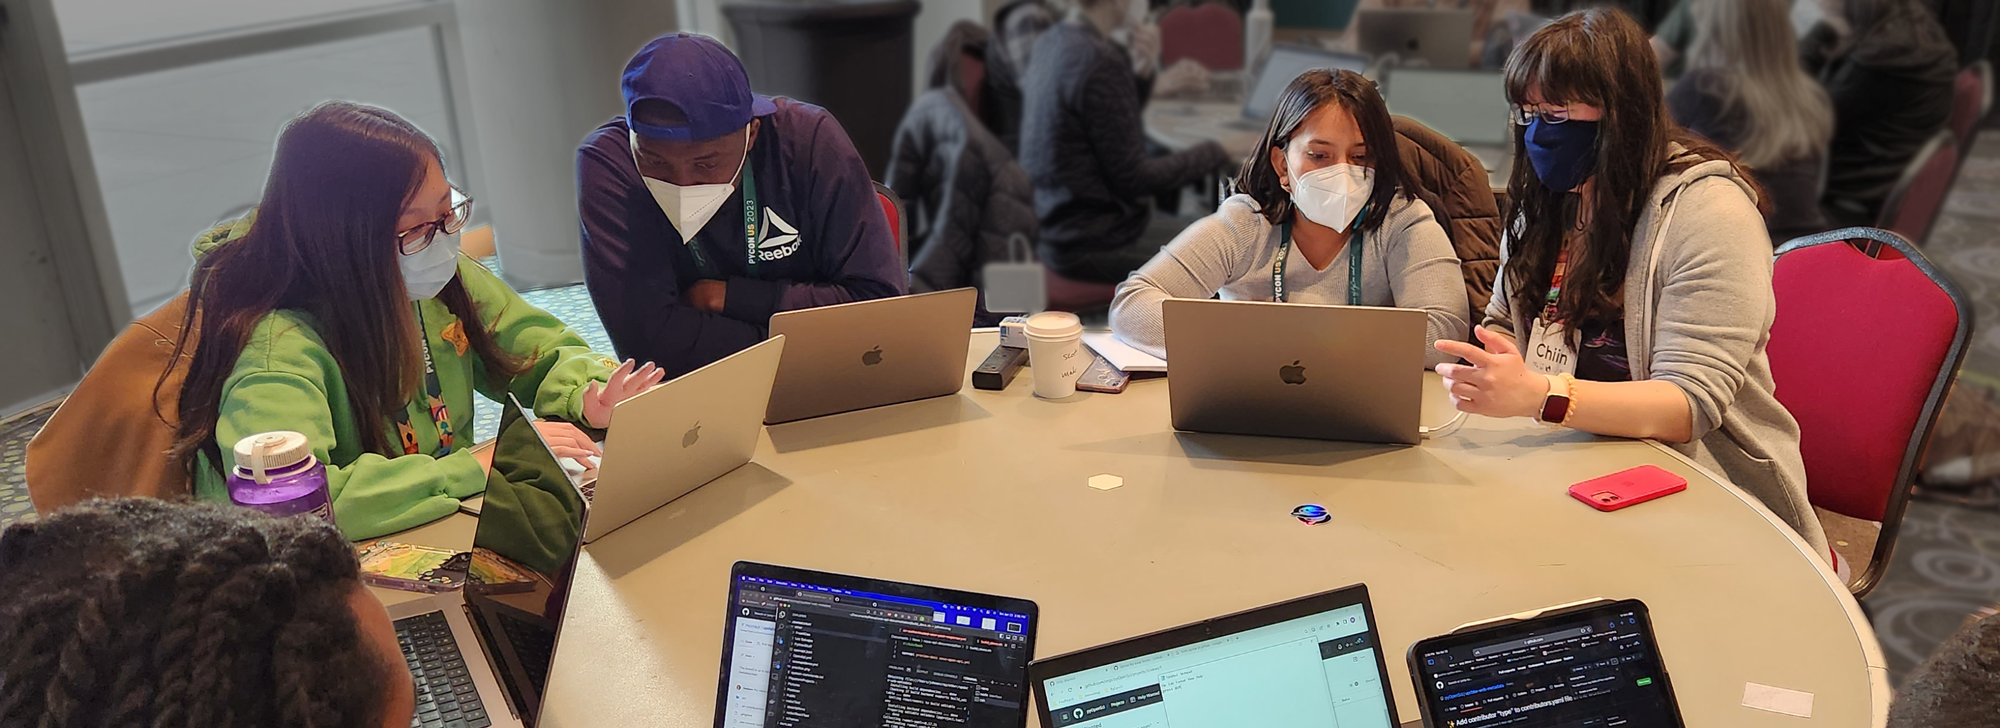
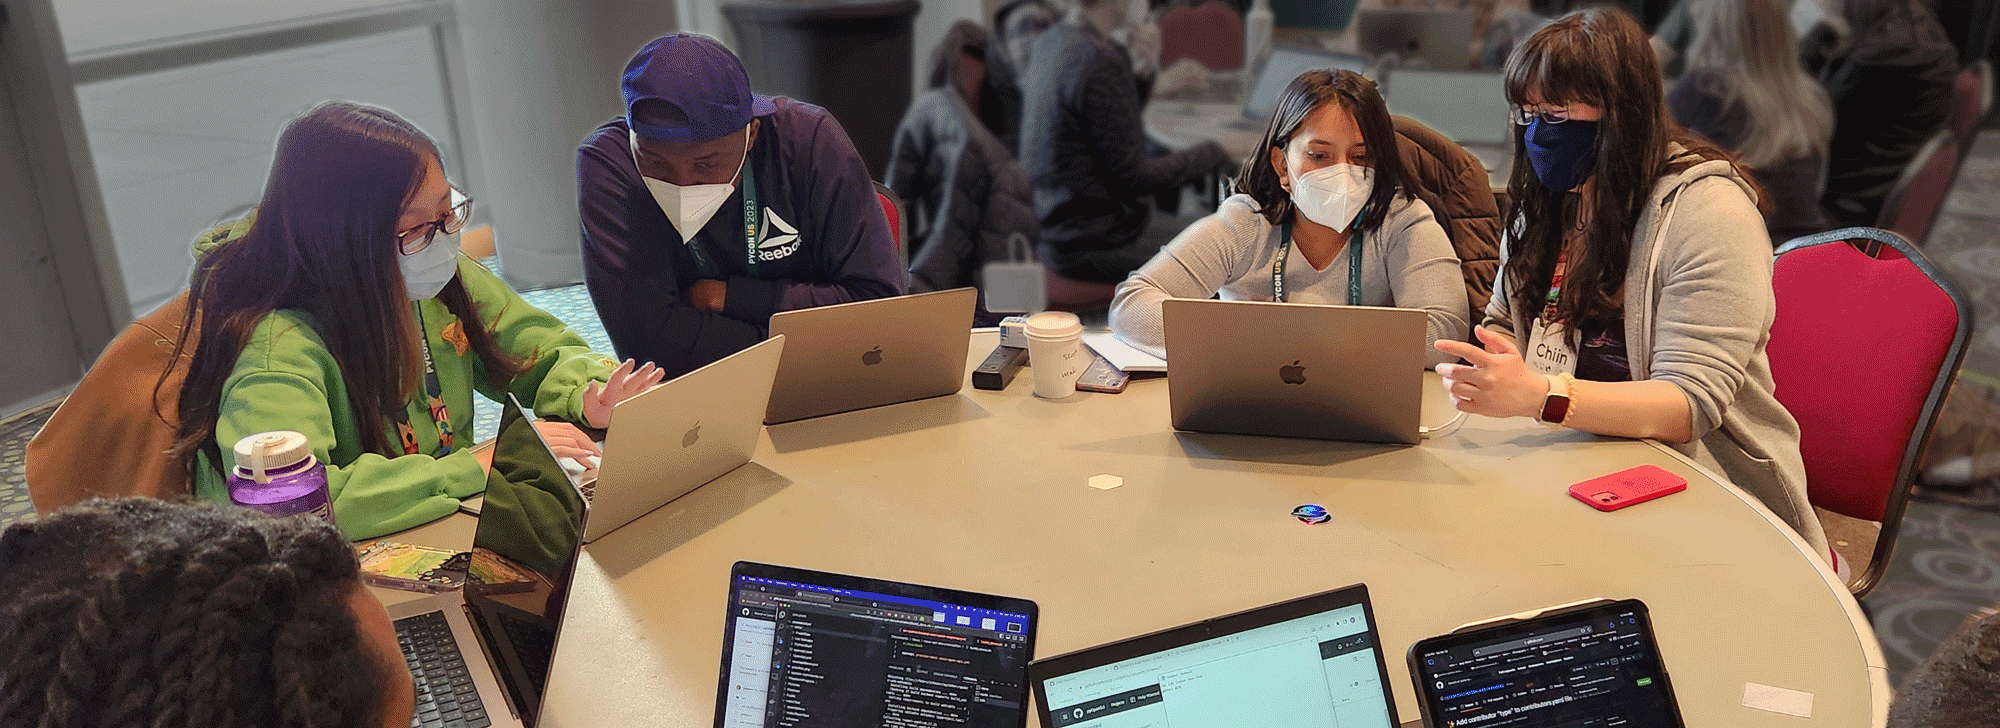
Fix: more image compression

diff --git a/_pages/home.md b/_pages/home.md
@@ -8,7 +8,7 @@ site-map: true
 permalink: /
 header:
   overlay_image: /images/people/header-mentored-sprints-smaller.png
-  overlay_filter: 0.6
+  overlay_filter: 0.7
   actions:
     - label: "Submit a Package"
       url: "https://github.com/pyOpenSci/software-review/issues"
